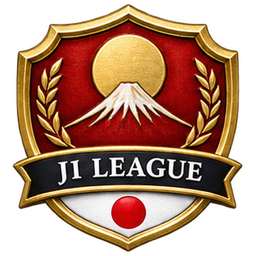
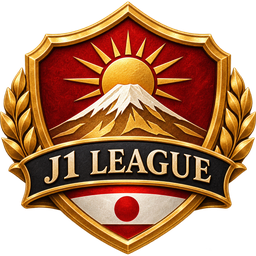
Corrected J1 League emblem
Claude-Session: https://claude.ai/code/session_01Kh61o3XjnWjEvvdwLfvyxb

diff --git a/HANDOVER.md b/HANDOVER.md
@@ -270,4 +270,4 @@ Everything Sudhi asked for after playing v0.9.0. Screens and code, in the order 
 2. Picker back button from a world league (K League 1, Brasileirão and so on) lands on a "nation" page built only from database leagues: Korea is blank; Brazil shows only Série B (the top flight is skipped because `_world_card` cards are tier 2+ only). Fix: a world nation page lists all its catalogue divisions including the top flight, and back from a nation with no database leagues returns to the continent list.
 3. Picker tiles: a lone card stretches to the full grid width (Série B). Cap tile width at about 1.5x its base size.
 4. Every league card like the English ones (Sudhi: "that is perfect"): world top flights and all second/third divisions get `_league_card` detail (favourites with badges, format incl. continental places e.g. "3 Libertadores", winner prize and budgets, best player, stars; cups row shows the continental cup until domestic cups exist). Emblems for the 36 catalogue leagues come from three ChatGPT sheets of 12 (same style as assets/leagues/0..12), saved by catalogue name.
-   Emblems are in: assets/leagues/w/<slug>.png (37, 256 px, cut from Sudhi's three ChatGPT sheets) with map.json (league name -> file). j1_league.png reads "JI LEAGUE" (letter I): Sudhi to regenerate that one.
+   Emblems are in: assets/leagues/w/<slug>.png (37, 256 px, cut from Sudhi's three ChatGPT sheets) with map.json (league name -> file). j1_league.png replaced with the corrected "J1 LEAGUE" version.
